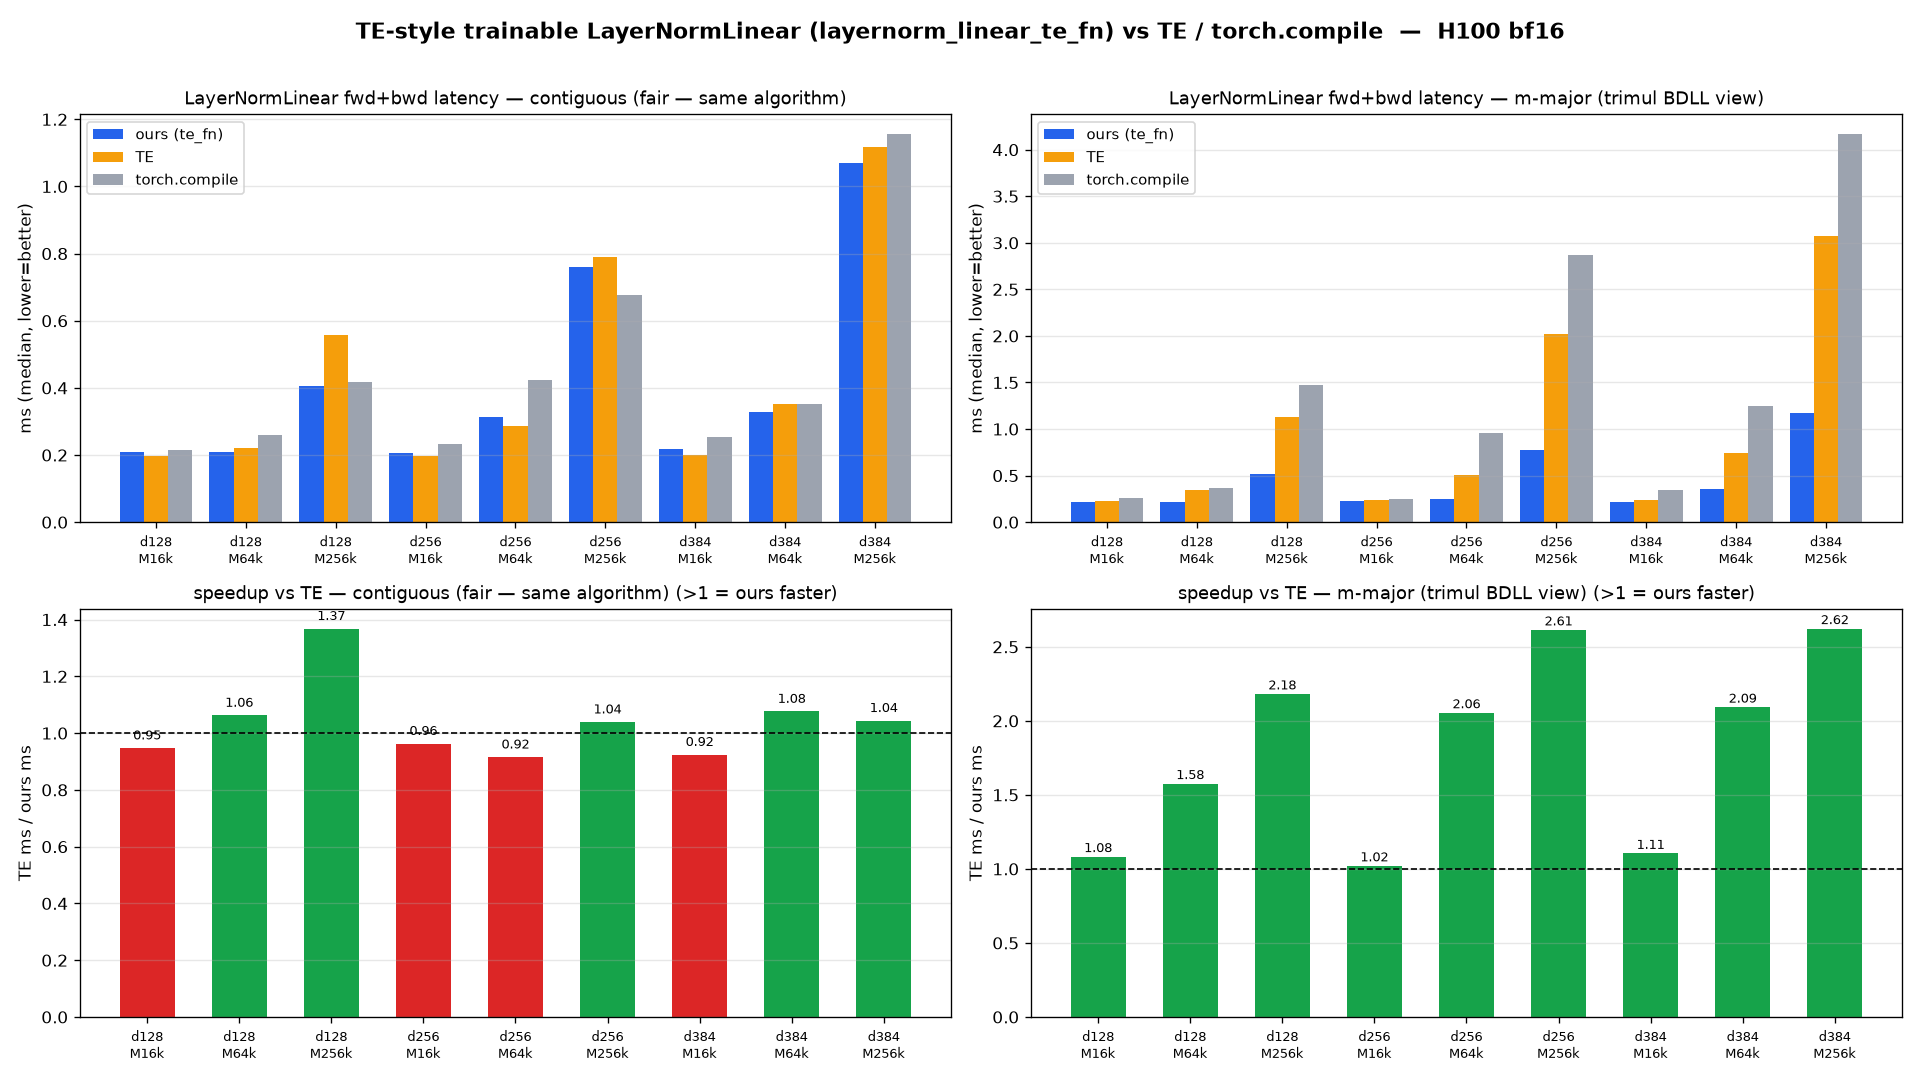
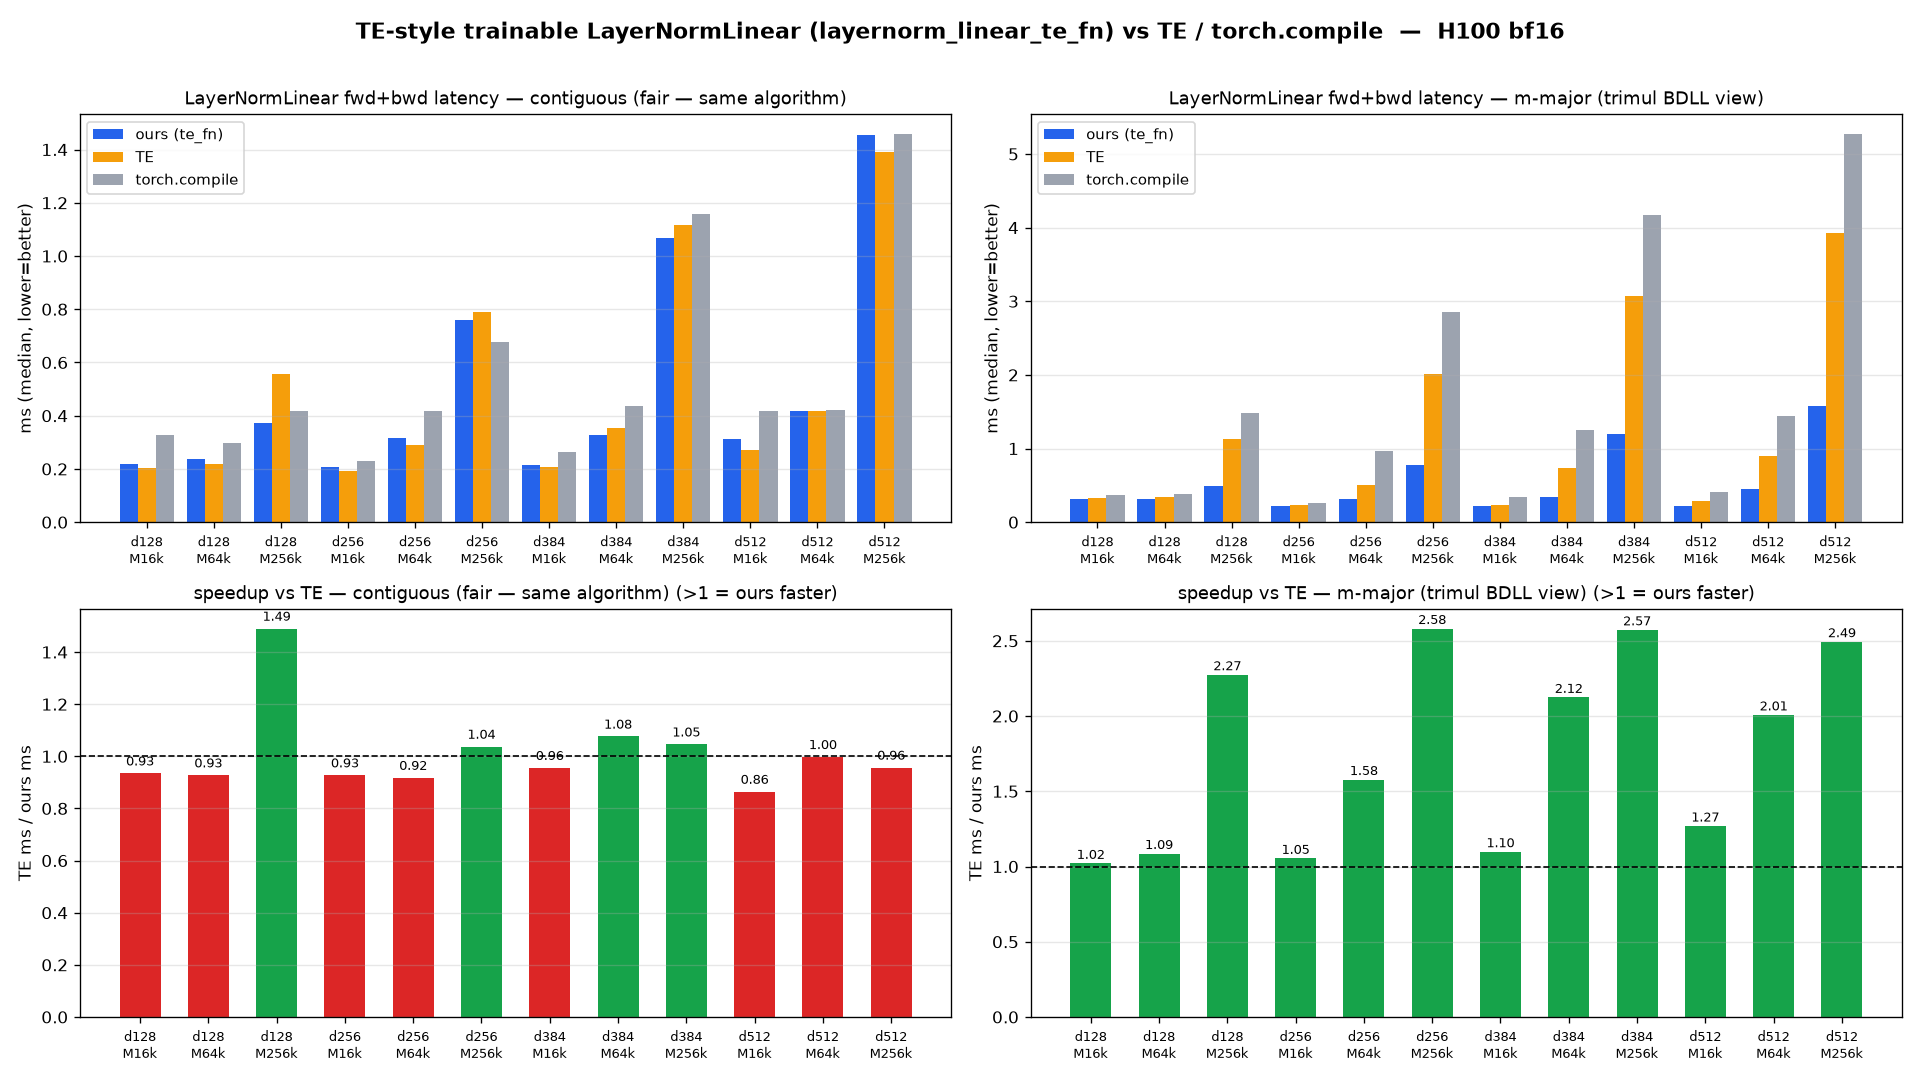
benchmark(layernorm_linear te): extend sweep to d=512 (table + bar charts)
Contiguous: large-M beats TE through d≤384 (1.04-1.49x), ties at d=512 (0.96x — LN-materialize
round-trip grows with d); small-M within 4-14%. M-major (trimul): wins everywhere incl. d=512
(1.02-2.58x). Re-recorded te_style.md + te_style_fwd_bwd.png from the d∈{128,256,384,512} run.

diff --git a/src/miniworld_kernels/kernels/layernorm_linear/benchmark/te_style_plot.py b/src/miniworld_kernels/kernels/layernorm_linear/benchmark/te_style_plot.py
@@ -10,13 +10,16 @@ from pathlib import Path
 # (M, d) -> (ours, TE, pytorch) ms, full fwd+bwd, H100 bf16
 SHAPES = [(16384, 128), (65536, 128), (262144, 128),
           (16384, 256), (65536, 256), (262144, 256),
-          (16384, 384), (65536, 384), (262144, 384)]
-CONTIG = [(0.2085, 0.1976, 0.2156), (0.2089, 0.2220, 0.2609), (0.4069, 0.5568, 0.4188),
-          (0.2052, 0.1977, 0.2331), (0.3144, 0.2879, 0.4227), (0.7597, 0.7895, 0.6779),
-          (0.2176, 0.2012, 0.2545), (0.3277, 0.3528, 0.3516), (1.0701, 1.1175, 1.1570)]
-MMAJOR = [(0.2117, 0.2294, 0.2572), (0.2164, 0.3412, 0.3676), (0.5179, 1.1302, 1.4778),
-          (0.2320, 0.2369, 0.2535), (0.2469, 0.5074, 0.9626), (0.7739, 2.0234, 2.8667),
-          (0.2190, 0.2420, 0.3476), (0.3528, 0.7384, 1.2462), (1.1714, 3.0730, 4.1710)]
+          (16384, 384), (65536, 384), (262144, 384),
+          (16384, 512), (65536, 512), (262144, 512)]
+CONTIG = [(0.2176, 0.2034, 0.3279), (0.2371, 0.2199, 0.2957), (0.3727, 0.5554, 0.4180),
+          (0.2083, 0.1932, 0.2288), (0.3174, 0.2913, 0.4196), (0.7600, 0.7884, 0.6782),
+          (0.2156, 0.2061, 0.2641), (0.3272, 0.3521, 0.4383), (1.0688, 1.1180, 1.1579),
+          (0.3127, 0.2703, 0.4167), (0.4174, 0.4165, 0.4208), (1.4546, 1.3922, 1.4594)]
+MMAJOR = [(0.3158, 0.3223, 0.3739), (0.3120, 0.3389, 0.3894), (0.4950, 1.1258, 1.4780),
+          (0.2161, 0.2277, 0.2560), (0.3217, 0.5076, 0.9642), (0.7816, 2.0176, 2.8608),
+          (0.2174, 0.2387, 0.3464), (0.3475, 0.7380, 1.2504), (1.1920, 3.0665, 4.1724),
+          (0.2227, 0.2826, 0.4134), (0.4485, 0.9003, 1.4375), (1.5767, 3.9320, 5.2750)]
 LABELS = [f"d{d}\nM{m//1024}k" for (m, d) in SHAPES]
 COL = {"ours": "#2563eb", "TE": "#f59e0b", "pytorch": "#9ca3af"}
 

diff --git a/src/miniworld_kernels/kernels/layernorm_linear/te_style_bench.py b/src/miniworld_kernels/kernels/layernorm_linear/te_style_bench.py
@@ -26,7 +26,7 @@ print(f"torch {torch.__version__}  {torch.cuda.get_device_name(0)}")
 for mmajor in (False, True):
     print(f"\n=== {'m-major (trimul view; TE needs .contiguous())' if mmajor else 'contiguous'} ===")
     print(f"{'M':>8} {'d':>5} | {'ours ms':>8} {'TE ms':>8} {'pytorch ms':>11} | {'vs TE':>6} {'vs pt':>6}")
-    for d in (128, 256, 384):
+    for d in (128, 256, 384, 512):
         for M in (16384, 65536, 262144):
             torch.manual_seed(0)
             ref = LayerNormLinearRef(d, d).to(D, dt)

diff --git a/src/miniworld_kernels/kernels/layernorm_linear/benchmark/te_style.md b/src/miniworld_kernels/kernels/layernorm_linear/benchmark/te_style.md
@@ -14,33 +14,41 @@ Same algorithm as Transformer Engine (materialize `x_normed=LN(x)` → plain cuB
 
 | M | d | ours (ms) | TE (ms) | torch.compile (ms) | **ours vs TE** |
 |---:|---:|---:|---:|---:|:---:|
-| 16384 | 128 | 0.2085 | 0.1976 | 0.2156 | 0.95x |
-| 65536 | 128 | 0.2089 | 0.2220 | 0.2609 | 1.06x |
-| 262144 | 128 | 0.4069 | 0.5568 | 0.4188 | **1.37x** |
-| 16384 | 256 | 0.2052 | 0.1977 | 0.2331 | 0.96x |
-| 65536 | 256 | 0.3144 | 0.2879 | 0.4227 | 0.92x |
-| 262144 | 256 | 0.7597 | 0.7895 | 0.6779 | **1.04x** |
-| 16384 | 384 | 0.2176 | 0.2012 | 0.2545 | 0.92x |
-| 65536 | 384 | 0.3277 | 0.3528 | 0.3516 | 1.08x |
-| 262144 | 384 | 1.0701 | 1.1175 | 1.1570 | **1.04x** |
+| 16384 | 128 | 0.2176 | 0.2034 | 0.3279 | 0.93x |
+| 65536 | 128 | 0.2371 | 0.2199 | 0.2957 | 0.93x |
+| 262144 | 128 | 0.3727 | 0.5554 | 0.4180 | **1.49x** |
+| 16384 | 256 | 0.2083 | 0.1932 | 0.2288 | 0.93x |
+| 65536 | 256 | 0.3174 | 0.2913 | 0.4196 | 0.92x |
+| 262144 | 256 | 0.7600 | 0.7884 | 0.6782 | **1.04x** |
+| 16384 | 384 | 0.2156 | 0.2061 | 0.2641 | 0.96x |
+| 65536 | 384 | 0.3272 | 0.3521 | 0.4383 | 1.08x |
+| 262144 | 384 | 1.0688 | 1.1180 | 1.1579 | **1.05x** |
+| 16384 | 512 | 0.3127 | 0.2703 | 0.4167 | 0.86x |
+| 65536 | 512 | 0.4174 | 0.4165 | 0.4208 | 1.00x |
+| 262144 | 512 | 1.4546 | 1.3922 | 1.4594 | 0.96x |
 
-Large-M (262144) **beats TE for all d**; small-M within 4–8% (residual fixed overhead).
+Large-M (262144) beats TE through d≤384 (1.04–1.49x) and ties at d=512 (0.96x); small-M within
+4–14% (residual fixed overhead, widest at d=512). d=512 large-M is the one place ours dips slightly
+(0.96x) — the LN-materialize round-trip cost grows with d.
 
 ## m-major input (trimul BDLL view; TE copies to contiguous internally)
 
 | M | d | ours (ms) | TE (ms) | torch.compile (ms) | **ours vs TE** |
 |---:|---:|---:|---:|---:|:---:|
-| 16384 | 128 | 0.2117 | 0.2294 | 0.2572 | 1.08x |
-| 65536 | 128 | 0.2164 | 0.3412 | 0.3676 | 1.58x |
-| 262144 | 128 | 0.5179 | 1.1302 | 1.4778 | **2.18x** |
-| 16384 | 256 | 0.2320 | 0.2369 | 0.2535 | 1.02x |
-| 65536 | 256 | 0.2469 | 0.5074 | 0.9626 | 2.06x |
-| 262144 | 256 | 0.7739 | 2.0234 | 2.8667 | **2.61x** |
-| 16384 | 384 | 0.2190 | 0.2420 | 0.3476 | 1.10x |
-| 65536 | 384 | 0.3528 | 0.7384 | 1.2462 | 2.09x |
-| 262144 | 384 | 1.1714 | 3.0730 | 4.1710 | **2.62x** |
+| 16384 | 128 | 0.3158 | 0.3223 | 0.3739 | 1.02x |
+| 65536 | 128 | 0.3120 | 0.3389 | 0.3894 | 1.09x |
+| 262144 | 128 | 0.4950 | 1.1258 | 1.4780 | **2.27x** |
+| 16384 | 256 | 0.2161 | 0.2277 | 0.2560 | 1.05x |
+| 65536 | 256 | 0.3217 | 0.5076 | 0.9642 | 1.58x |
+| 262144 | 256 | 0.7816 | 2.0176 | 2.8608 | **2.58x** |
+| 16384 | 384 | 0.2174 | 0.2387 | 0.3464 | 1.10x |
+| 65536 | 384 | 0.3475 | 0.7380 | 1.2504 | 2.12x |
+| 262144 | 384 | 1.1920 | 3.0665 | 4.1724 | **2.57x** |
+| 16384 | 512 | 0.2227 | 0.2826 | 0.4134 | 1.27x |
+| 65536 | 512 | 0.4485 | 0.9003 | 1.4375 | 2.01x |
+| 262144 | 512 | 1.5767 | 3.9320 | 5.2750 | **2.49x** |
 
-Wins everywhere; the lead grows with M because TE pays the strided→contiguous copy regardless
-(probed: `TE(raw-strided)` == `TE(.contiguous())` timing), while we absorb the stride.
+Wins everywhere (1.02–2.58x); the lead grows with M because TE pays the strided→contiguous copy
+regardless (probed: `TE(raw-strided)` == `TE(.contiguous())` timing), while we absorb the stride.
 
 All grads verified `cos=1.0` vs fp32 autograd (`te_style_verify.py`); `dx.stride() == x.stride()`.
